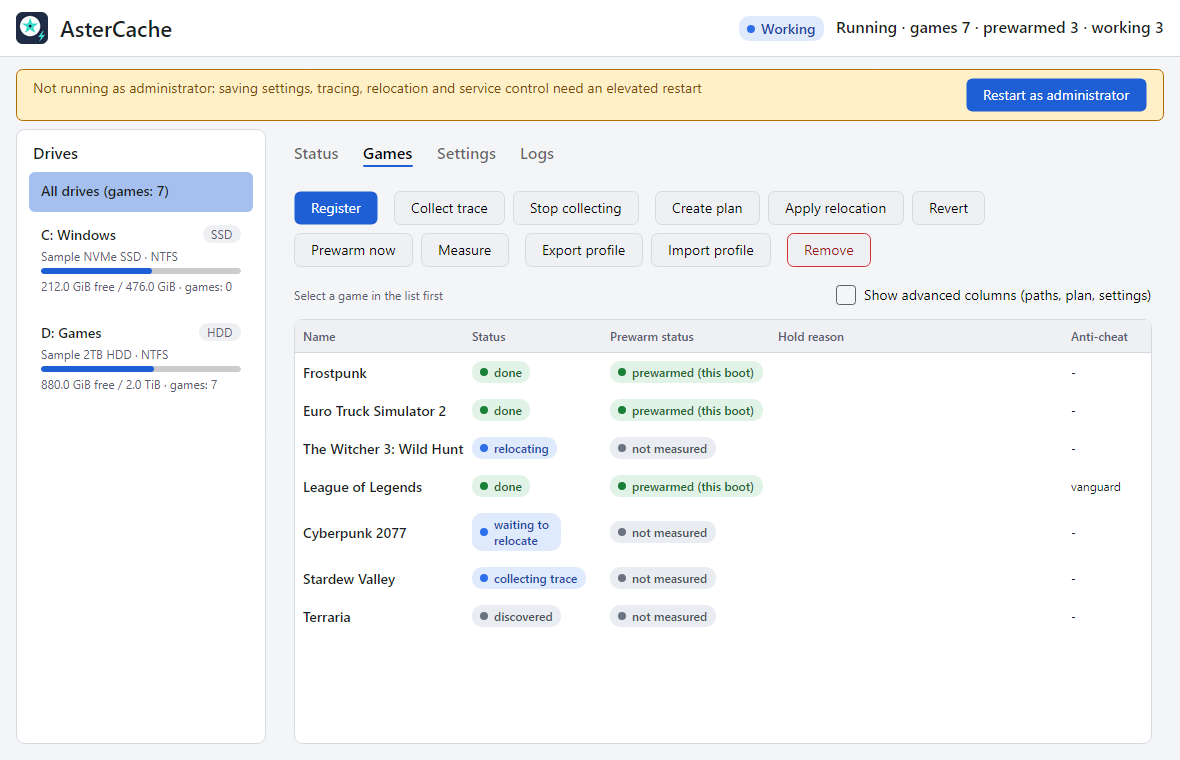
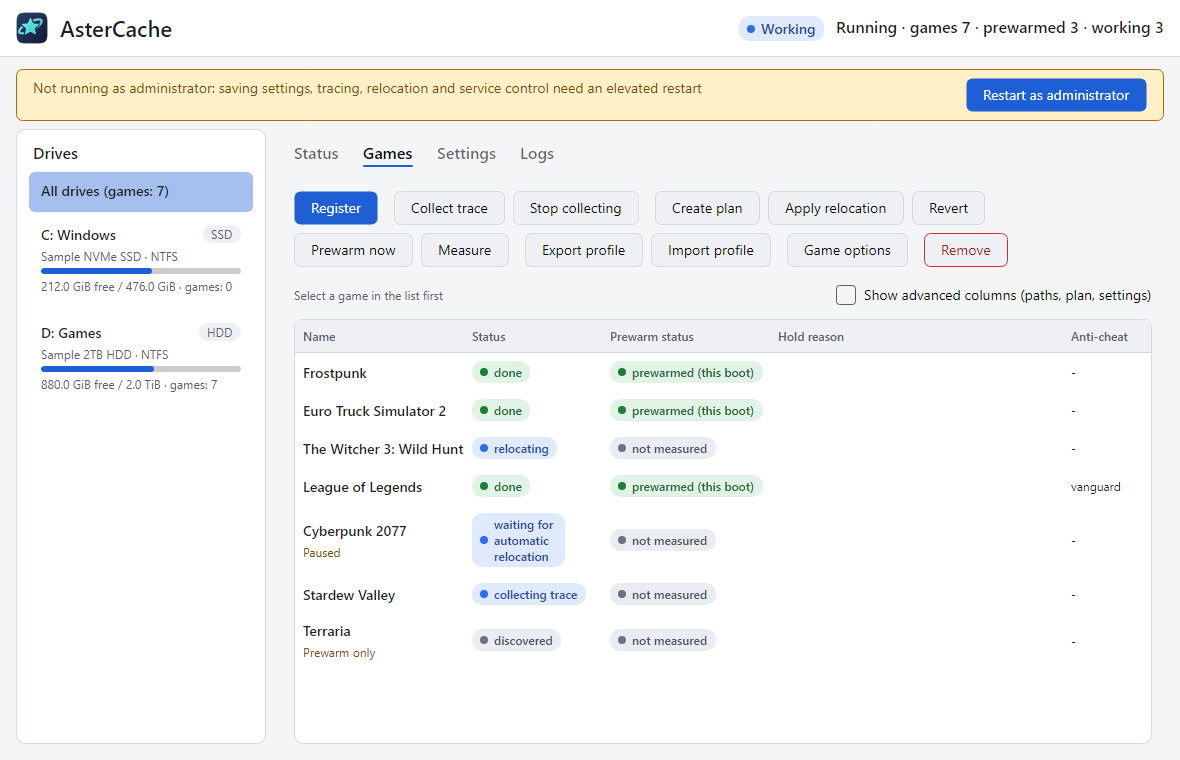
Docs: 정식판에 들어간 기능을 사용자 문서에 반영
사용자 문서가 프리릴리스 시점의 내용에 머물러, 자동 업데이트와 게임별 정책,
재배치 시간대, 마지막 플레이 요약, 진단 내보내기가 빠져 있었습니다.

- README: 업데이트 절 추가, 프리릴리스를 전제로 한 문구와 버전 예시 수정
- USAGE: 상태·게임·설정·로그 탭 설명 갱신, 게임 설정 창과 고급 구역, 트레이
  메뉴, 게임 일시 중지와 업데이트 끄기 방법 추가
- AUTO_MODE: 게임별 정책과 일시 중지, 재배치 시간대, 시작 스트림 스위치,
  알림 끄기 반영
- CONFIGURATION: 화면에서 고칠 수 있는 키와 고급 구역의 키, tray.json 의
  알림 키 설명 추가
- FAQ: 자동 업데이트, 진단 ZIP, 게임 하나만 제외하는 방법 추가
- ANTICHEAT: 설정으로는 안티치트 게이트와 고정 금지가 풀리지 않음을 명시
- 화면 캡처를 새 아이콘과 새 화면으로 교체

Issues #137

diff --git a/docs/CONFIGURATION.ko.md b/docs/CONFIGURATION.ko.md
@@ -9,6 +9,8 @@
 - 서비스는 파일 전체를 5초마다 다시 읽습니다(크기나 수정 시각이 바뀔 때). 그래서 다시 시작하지 않아도 반영됩니다. 새 설정이 검증이나 폴더 권한 검사에 실패하면 옛 설정을 유지하고 이유를 로그에 남깁니다.
 - 모르는 키는 거부합니다. 생략한 키는 아래 기본값을 씁니다.
 - ORBIT 는 `config.json` 이 아니라 CLI 로 켜고 끕니다(`aster orbit mode off|shadow|active`). [ORBIT](ORBIT.ko.md)을 보십시오.
+- 관리 창의 설정 탭과 게임 탭이 이 키들의 대부분을 씁니다. 설정 탭의 **고급** 구역(기본으로 접힘)에는 숫자 값이 있습니다: `prewarm.max_cache_mib`, `auto.startup_warm_games`, `auto.startup_warm_max_mib`, `auto.rewarm_after_exit_min`, `auto.max_relocations_per_day`, `auto.idle_seconds`, `auto.start_stream_cap_seconds`. 창이 기본값과 같은 값을 쓰면 파일에서 그 키를 지웁니다.
+- 알림 창 켜기·끄기는 `config.json` 이 아니라 `tray.json` 의 `notifications.enabled` 입니다.
 
 ```json
 {
@@ -61,10 +63,10 @@
 | `max_stream_mib` | 4096과 존 크기 중 큰 값 | 한 번의 스트림·예열이 읽는 상한(MiB). 명시값이 우선합니다. |
 | `source` | `manual` | 자동으로 찾은 게임은 `auto`, 직접 등록한 게임은 `manual`. |
 | `anticheat` | 없음 | 설치 폴더에서 찾은 안티치트: `eac`, `battleye`, `vanguard`, `kernel`, `ricochet`, `unknown`. 게임 탭에 표시되며 동작은 바꾸지 않습니다. 정책은 [안티치트 호환](ANTICHEAT.ko.md)을 보십시오. |
-| `display_name` | 없음 | 화면에 보일 게임 이름. 없으면 서비스가 남긴 런처 이름, 그것도 없으면 키의 밑줄을 공백으로 바꾼 이름을 씁니다. 내부 키는 그대로입니다. |
+| `display_name` | 없음 | 화면에 보일 게임 이름. 없으면 서비스가 남긴 런처 이름, 그것도 없으면 키의 밑줄을 공백으로 바꾼 이름을 씁니다. 내부 키는 그대로입니다. 게임 탭의 게임 설정 창(기본·한국어·영어 이름 칸)에서도 고칠 수 있습니다. |
 | `display_names` | 없음 | 언어별 화면 이름. 예: `{"ko": "발로란트", "en": "VALORANT"}`. 키는 `ko`, `en` 만 됩니다. |
-| `mode` | `inherit` | 이 게임에 서비스가 하는 일의 범위: `inherit`(전부), `prewarm_only`(재배치·정기 재적용 제외), `relocate_only`(예열·재예열·보충·시작 스트림·고정 제외), `off`(아무것도 안 함). 추적은 게임이 `off` 이거나 `paused` 가 아니면 계속 허용됩니다. |
-| `paused` | `false` | `true` 면 `mode` 와 무관하게 서비스가 이 게임의 새 작업을 시작하지 않습니다. 학습 데이터와 기록은 그대로 둡니다. |
+| `mode` | `inherit` | 이 게임에 서비스가 하는 일의 범위: `inherit`(전부), `prewarm_only`(재배치·정기 재적용 제외), `relocate_only`(예열·재예열·보충·시작 스트림·고정 제외), `off`(아무것도 안 함). 추적은 게임이 `off` 이거나 `paused` 가 아니면 계속 허용됩니다. 게임 탭의 게임 설정 창에서 정책을 고르는 것으로도 바꿉니다. |
+| `paused` | `false` | `true` 면 `mode` 와 무관하게 서비스가 이 게임의 새 작업을 시작하지 않습니다. 학습 데이터와 기록은 그대로 둡니다. 게임 탭의 게임 설정 창에서 일시 중지 체크 상자로도 바꿉니다. |
 
 `display_name` 과 `display_names` 는 손으로 넣을 수 있는 선택 키입니다. 이 키가 든 설정을 beta.24 로 되돌리면 그 버전이 설정을 거부하므로(종료 코드 2), 되돌리기 전에 두 키를 지워야 합니다.
 
@@ -74,9 +76,9 @@
 |---|---|---|
 | `on_service_start` | `true` | 서비스 시작 때 예열을 실행합니다. |
 | `trigger_exes` | `[]` | 이 프로그램이 뜨면 예열을 실행합니다(예: 런처, 최대 16개). |
-| `min_free_ram_mib` | 4096 | 예열 뒤에도 남겨 둘 가용 RAM. |
+| `min_free_ram_mib` | 4096 | 예열 뒤에도 남겨 둘 가용 RAM. 설정 창에는 없고 파일에서 고칩니다. |
 | `cooldown_min` | 30 | 예열 사이의 최소 간격(분). |
-| `max_cache_mib` | 0(자동) | 예열이 파일 캐시에 올려 둘 합계(MiB), 모든 게임이 나눠 씁니다. `0` 이거나 없으면 물리 RAM 의 절반이고, 양수면 그 값이며 물리 RAM 을 넘지 못합니다. 여러 게임이 적으면 가장 큰 값을 씁니다. `min_free_ram_mib` 여유 검사는 그대로 적용됩니다. |
+| `max_cache_mib` | 0(자동) | 예열이 파일 캐시에 올려 둘 합계(MiB), 모든 게임이 나눠 씁니다. `0` 이거나 없으면 물리 RAM 의 절반이고, 양수면 그 값이며 물리 RAM 을 넘지 못합니다. 여러 게임이 적으면 가장 큰 값을 씁니다. `min_free_ram_mib` 여유 검사는 그대로 적용됩니다. 고급 구역에서 저장하면 모든 등록 게임에 같은 값을 씁니다(0 이면 키를 지움). |
 | `pin` | 자동 | 예열한 데이터를 서비스가 읽기 전용 매핑으로 열어 둡니다. 설정에 적지 않으면 물리 RAM 24 GiB 이상에서 자동으로 켜지고, `false` 는 끕니다. 명시한 `true` 는 RAM 16 GiB 이상에서 동작합니다. 효과 미확인(실험 필요). [안티치트 호환](ANTICHEAT.ko.md)을 보십시오. |
 
 ## 자동 모드: `auto`
@@ -121,7 +123,7 @@
 | 키 | 기본값 | 뜻 |
 |---|---|---|
 | `idle_seconds` | 30 | 재배치 전에 PC 가 한가해야 하는 시간(초, 10~86400). 예전 키 `idle_minutes`(기본 3)는 적혀 있고 `idle_seconds` 가 없을 때만 씁니다. |
-| `relocate_hours` | `[]` | 자동 재배치와 정기 재적용을 시작해도 되는 로컬 시각(시, 0~23, 중복 없음, 최대 24개). 비어 있으면 시간 제한이 없습니다. |
+| `relocate_hours` | `[]` | 자동 재배치와 정기 재적용을 시작해도 되는 로컬 시각(시, 0~23, 중복 없음, 최대 24개). 비어 있으면 시간 제한이 없습니다. 설정 탭에서는 자정을 넘길 수 있는 시작~끝 시각 구간 하나로 고칩니다. 파일에 구간이 여러 개 적혀 있으면 그대로 보존하고 "사용자 지정(파일에서 편집)"으로 표시합니다. |
 | `max_relocations_per_day` | 4 | 24시간 동안의 재배치 최대 횟수(0~24). |
 | `max_relocate_gib_per_day` | 8 | 하루에 재배치로 쓸 수 있는 최대 GiB(0 = 무제한, 최대 1048576). 8 은 기본값으로 취급되어 SMR 디스크는 여전히 2 GiB 를 씁니다. |
 | `relocate_chunk_mib` | 4 | 한 번에 옮기는 조각 크기(MiB, 1~256). |
@@ -143,7 +145,7 @@
 | `startup_warm_max_mib` | 1024 | 서비스 시작 예열이 한 번에 읽는 합계 상한(MiB, 1~1048576). 넘는 게임은 건너뜁니다. |
 | `rewarm_minutes` | 10 | 데이터가 식었는지 보고 다시 예열하는 캐시 점검 간격(0~1440, 0이면 끔). |
 | `rewarm_after_exit_min` | 2 | 게임 종료를 감지하면 캐시 점검을 이 시간(분) 뒤로 당깁니다(0~1440, 0이면 끔). |
-| `start_stream_enabled` | `true` | `false` 면 게임이 시작될 때 시작 스트림을 하지 않습니다. |
+| `start_stream_enabled` | `true` | `false` 면 게임이 시작될 때 시작 스트림을 하지 않습니다. 설정 탭의 스위치로도 바꿉니다. |
 | `restream_cooldown_min` | 10 | 같은 게임의 시작 스트림을 이 시간(분) 안에는 다시 돌리지 않습니다(0~1440). 게임이 이미 실행 중이거나 디스크가 바쁠 때도 건너뜁니다. |
 | `start_stream_cap_seconds` | 120 | 시작 스트림의 시간 상한(초, 0~7200). 로딩 경계(10초 이동 창 읽기량이 최고치의 10% 아래로 떨어지는 시점, 최대 60초)에서도 멈춥니다. 0이면 시간 상한이 없습니다. |
 | `keep_awake` | `true` | 런처가 떠 있거나 평소 플레이하는 시간대에 10분마다 4 KiB 를 작게 읽어 HDD 가 꺼지지 않게 합니다. Windows 전원 설정은 바꾸지 않습니다. |
@@ -156,6 +158,8 @@
 |---|---|---|
 | `mode` | `auto` | 업데이트 방식: `auto`, `notify`, `off`. |
 | `prerelease` | `false` | `true` 면 프리릴리스도 대상으로 합니다. |
+
+설정 탭의 **업데이트** 카드가 `update.mode` 와 `update.prerelease` 를 정합니다.
 
 이전 버전은 `games[].mode`, `games[].paused`, `auto.start_stream_enabled`, `auto.relocate_hours`, `update` 키를 거부하므로, 되돌리기 전에 지워야 합니다.
 

diff --git a/docs/CONFIGURATION.md b/docs/CONFIGURATION.md
@@ -9,6 +9,8 @@ The configuration file is `%ProgramData%\AsterCache\config.json`. Editing it in 
 - The service re-reads the whole file every 5 seconds (when its size or modified time changes), so changes take effect without a restart. If the new configuration fails validation or the folder permission check, the previous settings stay in force and the reason is written to the log.
 - Unknown keys are rejected. Omitted keys take the defaults below.
 - ORBIT is turned on and off from the CLI, not in `config.json` (`aster orbit mode off|shadow|active`). See [ORBIT](ORBIT.md).
+- The management window's Settings and Games tabs write most of these keys. Its **Advanced** section (closed by default) holds seven numeric limits: `prewarm.max_cache_mib`, `auto.startup_warm_games`, `auto.startup_warm_max_mib`, `auto.rewarm_after_exit_min`, `auto.max_relocations_per_day`, `auto.idle_seconds`, and `auto.start_stream_cap_seconds`. A value the window writes equal to its default is removed from the file.
+- The pop-up notification switch is not in `config.json`; it is `notifications.enabled` in `tray.json`.
 
 ```json
 {
@@ -61,10 +63,10 @@ The configuration file is `%ProgramData%\AsterCache\config.json`. Editing it in 
 | `max_stream_mib` | the larger of 4096 and the zone size | Upper limit of what one stream or prewarm reads, in MiB. An explicit value wins. |
 | `source` | `manual` | `auto` for a game found automatically, `manual` for a game you registered. |
 | `anticheat` | none | Anti-cheat found in the install folder: `eac`, `battleye`, `vanguard`, `kernel`, `ricochet`, or `unknown`. Shown in the Games tab; it does not change behavior. For the policy, see [Anti-cheat compatibility](ANTICHEAT.md). |
-| `display_name` | none | Game name shown on screen. When not set, uses the launcher name the service recorded, or else the key with underscores replaced by spaces. The internal key is unchanged. |
+| `display_name` | none | Game name shown on screen. When not set, uses the launcher name the service recorded, or else the key with underscores replaced by spaces. The internal key is unchanged. You can also set it in the Game options window on the Games tab (default, Korean, and English name boxes). |
 | `display_names` | none | Per-language display names. Example: `{"ko": "발로란트", "en": "VALORANT"}`. Only the keys `ko` and `en` are accepted. |
-| `mode` | `inherit` | What the service does for this game: `inherit` (everything), `prewarm_only` (no relocation or periodic re-apply), `relocate_only` (no prewarm, re-prewarm, top-up, start-up stream, or pin), `off` (nothing). Tracing stays allowed unless the game is `off` or `paused`. |
-| `paused` | `false` | When `true`, the service starts no new work for this game, whatever `mode` says. Learned data and records are kept. |
+| `mode` | `inherit` | What the service does for this game: `inherit` (everything), `prewarm_only` (no relocation or periodic re-apply), `relocate_only` (no prewarm, re-prewarm, top-up, start-up stream, or pin), `off` (nothing). Tracing stays allowed unless the game is `off` or `paused`. Also set by the policy choice in the Game options window on the Games tab. |
+| `paused` | `false` | When `true`, the service starts no new work for this game, whatever `mode` says. Learned data and records are kept. Also set by the Paused checkbox in the Game options window on the Games tab. |
 
 `display_name` and `display_names` are optional keys you can write by hand. If you roll back to beta.24 with these keys in the configuration, that version rejects the settings (exit code 2), so remove both keys before rolling back.
 
@@ -74,9 +76,9 @@ The configuration file is `%ProgramData%\AsterCache\config.json`. Editing it in 
 |---|---|---|
 | `on_service_start` | `true` | Run prewarm when the service starts. |
 | `trigger_exes` | `[]` | Run prewarm when one of these programs starts, for example a launcher (up to 16). |
-| `min_free_ram_mib` | 4096 | Available RAM to leave free even after prewarm. |
+| `min_free_ram_mib` | 4096 | Available RAM to leave free even after prewarm. Not shown in the Settings window; edit the file. |
 | `cooldown_min` | 30 | Minimum interval between prewarms, in minutes. |
-| `max_cache_mib` | 0 (automatic) | Total MiB that prewarm may hold in the file cache, shared by all games. `0` or omitted = half of physical RAM; a positive value is used as is but cannot exceed physical RAM. If several games set it, the largest value applies. The `min_free_ram_mib` reserve still applies. |
+| `max_cache_mib` | 0 (automatic) | Total MiB that prewarm may hold in the file cache, shared by all games. `0` or omitted = half of physical RAM; a positive value is used as is but cannot exceed physical RAM. If several games set it, the largest value applies. The `min_free_ram_mib` reserve still applies. The Advanced section writes the value to every registered game (0 removes the key). |
 | `pin` | automatic | Keep prewarmed data open as read-only mappings in the service. When not written, it is on automatically with 24 GiB of RAM or more; `false` turns it off; an explicit `true` works with 16 GiB of RAM or more. Effect unverified (needs an experiment). See [Anti-cheat compatibility](ANTICHEAT.md). |
 
 ## Automatic mode: `auto`
@@ -121,7 +123,7 @@ What each stage does is in [Automatic mode](AUTO_MODE.md). Ranges are given in p
 | Key | Default | Meaning |
 |---|---|---|
 | `idle_seconds` | 30 | How long the PC must stay idle before relocation, in seconds (10 to 86400). The older `idle_minutes` (default 3) is used only if it is written and `idle_seconds` is not. |
-| `relocate_hours` | `[]` | Local hours of the day (0 to 23, no duplicates, up to 24 values) at which automatic relocation and periodic re-apply may start. Empty means no time limit. |
+| `relocate_hours` | `[]` | Local hours of the day (0 to 23, no duplicates, up to 24 values) at which automatic relocation and periodic re-apply may start. Empty means no time limit. The Settings tab offers one start-to-end range that may cross midnight; a file with several ranges is kept as written and shown as custom. |
 | `max_relocations_per_day` | 4 | The most relocations in 24 hours (0 to 24). |
 | `max_relocate_gib_per_day` | 8 | The most GiB a day that relocation may write (0 = unlimited, up to 1048576). An explicit 8 is treated as the default, so SMR disks still use 2 GiB. |
 | `relocate_chunk_mib` | 4 | Size of one moved piece, in MiB (1 to 256). |
@@ -143,7 +145,7 @@ What each stage does is in [Automatic mode](AUTO_MODE.md). Ranges are given in p
 | `startup_warm_max_mib` | 1024 | Total MiB the service-start prewarm reads at once (1 to 1048576). Games beyond it are skipped. |
 | `rewarm_minutes` | 10 | Interval of the cache check that prewarms again when the data went cold (0 to 1440; 0 = off). |
 | `rewarm_after_exit_min` | 2 | When a game exit is detected, the cache check is pulled forward to this many minutes later (0 to 1440; 0 = off). |
-| `start_stream_enabled` | `true` | When `false`, no start-up stream runs when a game starts. |
+| `start_stream_enabled` | `true` | When `false`, no start-up stream runs when a game starts. Also a switch in the Settings tab. |
 | `restream_cooldown_min` | 10 | The start-up stream of the same game is not run again within this many minutes (0 to 1440). It is also skipped while the game is running or the disk is busy. |
 | `start_stream_cap_seconds` | 120 | Time limit of the start-up stream, in seconds (0 to 7200). It also stops at the loading boundary (the point where the reads in a 10-second moving window fall below 10% of their peak, at most 60 seconds in). 0 means no time limit. |
 | `keep_awake` | `true` | A small 4 KiB read every 10 minutes, while a launcher is open or at the hours you usually play, so the HDD does not spin down. Windows power settings are not changed. |
@@ -156,6 +158,8 @@ What each stage does is in [Automatic mode](AUTO_MODE.md). Ranges are given in p
 |---|---|---|
 | `mode` | `auto` | How updates are handled: `auto`, `notify`, or `off`. |
 | `prerelease` | `false` | When `true`, prereleases are also considered. |
+
+The Updates card in the Settings tab sets `update.mode` and `update.prerelease`.
 
 Older versions reject the keys `games[].mode`, `games[].paused`, `auto.start_stream_enabled`, `auto.relocate_hours`, and `update`, so remove them before rolling back.
 

diff --git a/docs/USAGE.ko.md b/docs/USAGE.ko.md
@@ -16,12 +16,14 @@
 
 | 탭 | 할 수 있는 일 |
 |---|---|
-| **상태** | 서비스 상태와 마지막 예열, **자동 진행** 숫자 타일 다섯 개(찾은 게임, 만든 계획, 재배치, 예열, 평균 적중률), 게임별 카드(단계, 배치 판정, 마지막 재배치, 예열 결과, `예열 직후 적중 N%`)를 봅니다. |
-| **게임** | 게임별 상태, 예열 상태, 보류 이유, 안티치트 표시를 봅니다. 버튼은 등록, 제거, 트레이스 수집, 계획 만들기, 재배치 실행, 되돌리기, 지금 예열, 측정입니다(아래 참고). **고급 열 보기**를 켜면 경로와 설정이 더 보입니다. |
-| **설정** | **자동 모드** 카드(자동 모드 사용, 발견, 트레이스, 재배치, SSD 보조 저장, 예열할 최근 게임 수, 제외할 실행 파일, 존 상한, 하루 쓰기 상한), **서비스** 카드(설치, 제거, 시작, 정지), 감시기, **언어**, 데이터·로그 폴더 열기, 트레이·서비스 버전을 다룹니다. |
-| **로그** | `service.log` 와 `tray.log` 의 마지막 200줄을 새로 고침과 함께 보여 줍니다. |
+| **상태** | 서비스 상태와 마지막 예열, **자동 진행** 숫자 타일 다섯 개(찾은 게임, 만든 계획, 재배치, 예열, 평균 적중률), 게임별 카드(단계, 배치 판정, 마지막 재배치, 예열 결과, `예열 직후 적중 N%`, 마지막 플레이)를 봅니다. 마지막 플레이는 두 줄로, 언제 플레이했는지와 시작할 때의 예열 상태, 처음 30초·처음 120초·플레이 전체의 디스크 읽기 통계를 보여 줍니다. 이 값은 디스크 읽기 카운터이며 로딩 시간이나 프레임을 잰 값이 아닙니다. 기본값이 아닌 정책이나 일시 중지는 카드에도 표시됩니다. |
+| **게임** | 게임별 상태, 예열 상태, 보류 이유, 안티치트 표시를 봅니다. 버튼은 등록, 제거, 게임 설정, 트레이스 수집, 계획 만들기, 재배치 실행, 되돌리기, 지금 예열, 측정, 프로필 내보내기, 프로필 가져오기입니다(아래 참고). **고급 열 보기**를 켜면 경로와 설정이 더 보입니다. 게임을 고른 뒤 **게임 설정**을 누르면 창이 열립니다. 창에는 **일시 중지** 체크 상자, **정책**(`games[].mode`: 전체(기본값), 예열만, 재배치만, 사용 안 함, 각각 한 줄 설명)과 표시 이름 칸 세 개(기본 이름, 한국어 이름, 영어 이름)가 있고, **저장**과 **취소**가 있습니다. 내부 이름은 바뀌지 않습니다. 기본값이 아닌 정책이나 일시 중지는 게임 이름 아래에 "일시 중지됨 · 예열만"처럼 표시됩니다. |
+| **설정** | **자동 모드** 카드(자동 모드 사용, 발견, 트레이스, 재배치, SSD 보조 저장, 예열할 최근 게임 수, 제외할 실행 파일, 존 상한, 하루 쓰기 상한), 자동 모드 카드의 **게임 시작 때 미리 읽기 (시작 스트림)** 체크 상자(`auto.start_stream_enabled`), **재배치 시간대**(`auto.relocate_hours`: **언제든**, 또는 **시간 지정**으로 자정을 넘길 수 있는 시작~끝 시각. 한 구간이 아닌 값은 그대로 두고 **사용자 지정 (파일에서 편집)**으로 표시하며, 시작과 끝이 같으면 저장하지 않습니다), **업데이트** 카드(자동 설치, 알림만, 끄기, 프리릴리스 포함, 지금 확인), **알림** 체크 상자, **서비스** 카드(설치, 제거, 시작, 정지), 감시기, **언어**, 데이터·로그 폴더 열기, 트레이·서비스 버전을 다룹니다. 맨 아래 **고급** 구역은 **고급 설정 보기**를 켜야 펼쳐지며 기본으로 접혀 있습니다(아래 설명). |
+| **로그** | `service.log` 와 `tray.log` 의 마지막 200줄을 새로 고침과 함께 보여 줍니다. **진단 내보내기**는 고른 위치에 ZIP 파일을 만듭니다([자주 묻는 질문](FAQ.ko.md) 참고). |
 
-트레이 아이콘 메뉴에는 **열기**와 **지금 예열 (스트림)** 이 있습니다.
+**고급 구역 (설정 탭).** 지금까지 `config.json` 에서만 고칠 수 있던 숫자 값을 둡니다. 각 항목은 기본값과 한 줄 설명을 보여 주며, 범위를 벗어난 값은 거절되고 아무것도 저장되지 않습니다. **고급 설정 적용**을 누르면 위 자동 모드의 입력도 함께 한 번에 저장됩니다. 예열 캐시 예산(`prewarm.max_cache_mib`)은 게임마다가 아니라 모든 게임이 함께 쓰며, 0 은 물리 RAM 의 절반입니다. 설정 창에서 바꾸면 등록된 모든 게임에 같은 값을 적습니다(0 이면 키를 지움). 나머지는 서비스 시작 때 예열할 게임 수와 크기 상한(`auto.startup_warm_games`, `auto.startup_warm_max_mib`), 게임 종료 뒤 다시 예열하기까지 기다리는 시간(`auto.rewarm_after_exit_min`), 하루 재배치 횟수(`auto.max_relocations_per_day`), 유휴 판정 시간(`auto.idle_seconds`), 시작 스트림 시간 상한(`auto.start_stream_cap_seconds`)입니다. 모든 키는 [설정](CONFIGURATION.ko.md)에 있습니다.
+
+트레이 아이콘 메뉴에는 **열기**, **지금 예열 (스트림)**, **업데이트 확인**, 새 버전이 준비되면 **업데이트 설치 (버전)**, 그리고 **로그 열기**가 있습니다.
 
 ## 자주 하는 작업
 
@@ -30,6 +32,10 @@
 **자동 모드 끄기.** **설정** 탭에서 **자동 모드 사용** 체크를 풀고 **자동 모드 적용**을 누릅니다. 또는 `%ProgramData%\AsterCache\config.json` 에 `"auto": {"enabled": false}` 를 씁니다.
 
 **게임 하나만 빼기.** 그 exe 를 `auto.ignore_exes` 에 넣거나, **게임** 탭에서 게임을 고르고 **제거**를 누릅니다(exe 가 목록에 들어가 다시 등록되지 않습니다).
+
+**게임 일시 중지 또는 허용 범위 줄이기.** **게임** 탭에서 게임을 고르고 **게임 설정**을 누른 뒤 **일시 중지**를 켜거나 끄고 정책을 고릅니다. 일시 중지한 게임과 **사용 안 함** 게임은 새 작업을 시작하지 않으며 추적도 하지 않습니다. 이미 진행 중이던 추적은 기록한 읽기를 그대로 저장합니다. **예열만**은 예열과 계획만 하고 파일은 옮기지 않습니다. **재배치만**은 옮기기만 하고 예열하지 않습니다. 다른 게임에는 영향이 없습니다.
+
+**자동 업데이트 끄기 또는 알림만 받기.** **설정** 탭의 **업데이트** 카드에서 **끄기** 또는 **알림만**을 고르십시오. [자주 묻는 질문](FAQ.ko.md)의 업데이트 항목을 보십시오.
 
 **게임 되돌리기.** **게임** 탭에서 게임을 고르고 **되돌리기**를 누릅니다. 저널이 예전 배치로 복원하며, 파일 내용은 처음부터 바뀌지 않았습니다. 게임이 실행 중이면 되돌리기는 거절됩니다.
 

diff --git a/README.ko.md b/README.ko.md
@@ -14,7 +14,7 @@
   <a href="https://github.com/DO0OG/AsterCache/actions/workflows/kernel-build.yml"><img alt="Kernel Build" src="https://github.com/DO0OG/AsterCache/actions/workflows/kernel-build.yml/badge.svg"></a>
 </p>
 
-> **베타.** AsterCache 는 베타 프리릴리스로 배포합니다. 파일 데이터를 실제로 옮기므로 중요한 데이터가 있는 드라이브는 백업한 뒤 쓰십시오. 검증 범위는 SMR 드라이브(WD20EZAZ) 1대와 실제 게임 1종(Frostpunk)이며, CMR 드라이브는 시험하지 않았습니다. 안티치트 게임은 한 PC 의 사용 기록만 있고 통제된 검증은 하지 않았습니다([안티치트 호환](docs/ANTICHEAT.ko.md)).
+> **사용 전에 읽으십시오.** AsterCache 는 파일 데이터를 실제로 옮기므로 중요한 데이터가 있는 드라이브는 백업한 뒤 쓰십시오. 검증 범위는 SMR 드라이브(WD20EZAZ) 1대와 실제 게임 1종(Frostpunk)이며, CMR 드라이브는 시험하지 않았습니다. 안티치트 게임은 한 PC 의 사용 기록만 있고 통제된 검증은 하지 않았습니다([안티치트 호환](docs/ANTICHEAT.ko.md)).
 
 ## 무엇을 하는가
 
@@ -22,6 +22,7 @@ AsterCache 는 하드 디스크(HDD)에 설치한 게임의 로딩을 빠르게 
 
 - 게임 파일의 내용을 바꾸지 않고, 다른 드라이브로 복사하지도 않습니다(선택 기능인 SSD 보조 저장은 기본 꺼짐이며 유일한 예외입니다).
 - 설치한 뒤에는 따로 할 일이 없습니다. 백그라운드에서 알아서 동작합니다.
+- 트레이 창은 게임마다 마지막 플레이 요약을 보여 줍니다. 디스크 읽기 통계이며 로딩 시간이나 프레임을 잰 값이 아닙니다. 지원용 진단 ZIP 을 내보낼 수 있고, 그 파일은 이 PC 에만 남습니다.
 - 이 문서의 측정 수치는 기록한 읽기 패턴의 재생 시간이며, 게임을 실행한 전체 로딩 시간이 아닙니다.
 
 ## 누구에게 맞는가
@@ -42,13 +43,17 @@ AsterCache 는 하드 디스크(HDD)에 설치한 게임의 로딩을 빠르게 
 
 요구 사항: Windows 11 x64, NTFS 게임 드라이브. 서비스 설치, 트레이스 수집, 재배치에는 관리자 권한이 필요합니다.
 
-1. [GitHub Releases](https://github.com/DO0OG/AsterCache/releases) 에서 `AsterCache-v<버전>-win-x64-setup.exe` 를 받습니다(프리릴리스, 예: v0.9.0-beta.38).
+1. [GitHub Releases](https://github.com/DO0OG/AsterCache/releases) 에서 `AsterCache-v<버전>-win-x64-setup.exe` 를 받습니다(최신 릴리스).
 2. 실행해서 언어(English 또는 한국어)를 고릅니다.
 3. 기본 선택(바탕화면·시작 메뉴 바로가기, Windows 시작 시 실행, 서비스 설치)을 그대로 두고 끝날 때까지 다음을 누릅니다.
 
-설치 프로그램이 싫다면 같은 릴리스의 zip `AsterCache-0.9.0-beta.38-win-x64.zip` 을 쓸 수 있습니다. 압축을 풀고 `AsterCache.Tray.exe` 를 관리자 권한으로 실행한 뒤, 설정 탭에서 서비스를 설치하고 시작합니다.
+설치 프로그램이 싫다면 같은 릴리스의 zip `AsterCache-<버전>-win-x64.zip` 을 쓸 수 있습니다. 압축을 풀고 `AsterCache.Tray.exe` 를 관리자 권한으로 실행한 뒤, 설정 탭에서 서비스를 설치하고 시작합니다.
 
 새 설치본을 다시 실행하면 기존 설치를 업그레이드합니다. 제거하면 먼저 SSD 보조 저장의 링크를 되돌린 뒤 프로그램과 서비스를 지웁니다. 데이터 폴더 `%ProgramData%\AsterCache` 는 남습니다. 설치 프로그램에는 코드 서명이 없어 Windows SmartScreen 경고가 뜰 수 있습니다. 소스에서 빌드하려면 [docs/DEVELOPMENT.ko.md](docs/DEVELOPMENT.ko.md)를 보십시오.
+
+### 3. 업데이트
+
+트레이는 시작 5분 뒤와 그 뒤 24시간마다 공식 릴리스를 확인합니다. 기본(`update.mode` = `auto`)은 더 새로운 설치 프로그램을 받아 SHA-256 을 검증한 뒤 조용히 설치합니다. 단, 설치된 복사본을 관리자 권한으로 실행 중이고, 등록된 게임이 실행 중이 아니며, 재배치가 진행 중이 아닐 때만 설치합니다. 그 밖의 경우에는 알림만 하거나 릴리스 페이지를 엽니다. 설정 탭의 업데이트 구역에서 **자동 설치**, **알림만**, **끄기** 가운데 고를 수 있고, 프리릴리스는 따로 켜지 않으면 포함하지 않습니다. 서비스는 네트워크를 쓰지 않습니다. 조용한 설치는 아직 실기기에서 확인하지 않았습니다. 자세한 내용은 [docs/FAQ.ko.md](docs/FAQ.ko.md)를 보십시오.
 
 ### 2. 사용: 누를 버튼은 없습니다
 
@@ -135,7 +140,7 @@ flowchart LR
 - 추적은 디스크까지 간 읽기만 기록합니다. 이미 캐시에 있던 읽기는 빠질 수 있습니다.
 - 재생 측정은 SMR 드라이브 1대에서 실제 게임 Frostpunk 1종만 했습니다. 지속성은 재배치 뒤 10시간까지 확인했습니다. Call of Duty 와 League of Legends 는 사용 로그 집계만 있습니다.
 - 정전, SSD 손상, BitLocker, DirectStorage 환경은 시험하지 않았습니다.
-- 트레이만 갱신되면 서비스는 옛 버전으로 남습니다. 설치 프로그램으로 서비스를 다시 설치하십시오.
+- 트레이만 갱신되면 서비스는 옛 버전으로 남습니다. 설치 프로그램으로 서비스를 다시 설치하십시오. 자동 업데이트는 설치 프로그램 전체를 실행하므로 서비스도 함께 갱신됩니다.
 - Wallpaper Engine 같은 상주 유틸리티는 자동 등록에서 제외됩니다. HDD 에 있는 그 밖의 게임이 아닌 앱은 등록될 수 있으니, 원치 않으면 그 exe 를 `auto.ignore_exes` 에 넣거나 게임 탭에서 제거하십시오.
 - `AppData\Local\Temp` 아래 설치한 게임은 휴리스틱으로 잡히지 않습니다. 공유 프로필 저장소는 아직 준비 중입니다.
 - 검증한 것과 하지 않은 것의 전체 목록은 [VALIDATION_REPORT.ko.md](VALIDATION_REPORT.ko.md)에 있습니다.

diff --git a/docs/USAGE.md b/docs/USAGE.md
@@ -16,12 +16,14 @@ The left side lists your fixed drives (letter, label, HDD or SSD, free space, nu
 
 | Tab | What you can do |
 |---|---|
-| **Status** | See the service state and the last prewarm; the five **Automatic progress** tiles (games found, plans made, relocated, prewarmed, average hit rate); and one card per game with its stage, layout verdict, last relocation, prewarm result, and `hit right after prewarm N%`. |
-| **Games** | See each game's status, prewarm state, hold reason, and anti-cheat marker. Buttons: Register, Remove, Collect trace, Create plan, Apply relocation, Revert, Prewarm now, Measure (below). **Show advanced columns** adds paths and settings. |
-| **Settings** | The **Automatic mode** card (use automatic mode, discover, trace, relocate, SSD assist storage, recent games to prewarm, excluded executables, zone limit, daily write limit); the **Service** card (install, uninstall, start, stop); the watcher; **language**; open the data and log folders; tray and service versions. |
-| **Logs** | The last 200 lines of `service.log` and `tray.log`, with refresh. |
+| **Status** | See the service state and the last prewarm; the five **Automatic progress** tiles (games found, plans made, relocated, prewarmed, average hit rate); and one card per game with its stage, layout verdict, last relocation, prewarm result, `hit right after prewarm N%`, and the last play. The last play takes two lines: when it was played, the prewarm state at start, and disk read statistics for the first 30 seconds, the first 120 seconds, and the whole play. These are disk read counters, not a load-time or frame measurement. A non-default policy or pause also shows on the card. |
+| **Games** | See each game's status, prewarm state, hold reason, and anti-cheat marker. Buttons: Register, Remove, Game options, Collect trace, Create plan, Apply relocation, Revert, Prewarm now, Measure, Export profile, Import profile (below). **Show advanced columns** adds paths and settings. Select a game and click **Game options** to open a window with a **Paused** checkbox, a **policy** (`games[].mode`: Everything (default), Prewarm only, Relocate only, or Off, each with a one-line description), and three display-name boxes (default, Korean, English). **Save** applies them and **Cancel** closes the window. The internal name does not change. A game whose policy is not the default, or that is paused, shows that under its name in the list (for example "Paused · Prewarm only"). |
+| **Settings** | The **Automatic mode** card (use automatic mode, discover, trace, relocate, SSD assist storage, recent games to prewarm, excluded executables, zone limit, daily write limit); the **Read ahead when a game starts (start stream)** checkbox (`auto.start_stream_enabled`) in the Automatic mode card; **Relocation hours** (`auto.relocate_hours`): **Any time**, or **Set hours** with a start and end hour that may cross midnight (a value that is not a single range is kept and shown as **Custom (edit in the file)**; equal start and end is refused); the **Updates** card (Install automatically, Notify only, or Off; include prereleases; check now); the **Notifications** checkbox; the **Service** card (install, uninstall, start, stop); the watcher; **language**; open the data and log folders; tray and service versions. At the bottom, the **Advanced** section stays closed until you tick **Show advanced settings**; it is described below. |
+| **Logs** | The last 200 lines of `service.log` and `tray.log`, with refresh. **Export diagnostics** writes a ZIP file to a place you choose (see the question about it in [FAQ](FAQ.md)). |
 
-The tray icon menu has **Open** and **Prewarm now (stream)**.
+**Advanced section (Settings tab).** It holds the numeric limits that were previously only editable in `config.json`. Each one shows its default and a one-line meaning; a value outside its range is refused and nothing is saved, and **Apply advanced settings** saves them together with the Automatic mode inputs above. The prewarm cache budget (`prewarm.max_cache_mib`) is shared by all games, not set per game; 0 means half of physical RAM. The other items are the number of games and the size cap for the prewarm at service start (`auto.startup_warm_games`, `auto.startup_warm_max_mib`), the wait after a game exits before prewarming again (`auto.rewarm_after_exit_min`), the daily relocation count (`auto.max_relocations_per_day`), the idle time (`auto.idle_seconds`), and the time limit of the start stream (`auto.start_stream_cap_seconds`). All keys are in [CONFIGURATION](CONFIGURATION.md).
+
+The tray icon menu has **Open**, **Prewarm now (stream)**, **Check for updates**, and **Install update (version)** when a newer version is ready, plus **Open logs**.
 
 ## Common tasks
 
@@ -30,6 +32,10 @@ The tray icon menu has **Open** and **Prewarm now (stream)**.
 **Turn automatic mode off.** In **Settings**, clear **Use automatic mode** and click **Apply automatic mode**. Or set `"auto": {"enabled": false}` in `%ProgramData%\AsterCache\config.json`.
 
 **Keep one game out.** Add its exe to `auto.ignore_exes`, or select it on the **Games** tab and click **Remove** (the exe is added to the list so it is not registered again).
+
+**Pause a game, or limit what it may do.** On the **Games** tab, select the game, click **Game options**, and tick **Paused** or choose a policy. A paused game and a game set to **Off** start no new work and are not traced; a trace that was already running keeps the reads it has recorded. **Prewarm only** prewarms and plans but never moves files. **Relocate only** moves files but does not prewarm. Other games are not affected.
+
+**Turn updates off, or only be told about them.** In **Settings**, open the **Updates** card and choose **Off** or **Notify only**. See the updates questions in [FAQ](FAQ.md).
 
 **Put a game back.** On the **Games** tab, select the game and click **Revert**. The journal restores the previous layout; the file contents never changed. Revert is refused while the game is running.
 

diff --git a/docs/FAQ.md b/docs/FAQ.md
@@ -19,7 +19,7 @@ When a game starts, it reads that game's recorded data in order for up to 120 se
 Uninstalling first reverts SSD assist links, then removes the program and the service. The data folder `%ProgramData%\AsterCache` stays. Pieces already moved are not moved back, and the file contents are unchanged either way; to restore the previous layout, click **Revert** on the Games tab first. Removing a game from the list leaves its files as they are. See [Usage](USAGE.md#common-tasks).
 
 **How much RAM does it use?**
-Prewarmed data is ordinary file cache. Across all games it is limited to half of physical RAM by default (`prewarm.max_cache_mib`), and prewarm runs only when at least 4 GB of RAM would still be free afterwards. Windows reclaims the cache when your programs need the memory. See [Configuration](CONFIGURATION.md).
+Prewarmed data is ordinary file cache. Across all games it is limited to half of physical RAM by default (`prewarm.max_cache_mib`), and prewarm runs only when at least 4 GB of RAM would still be free afterwards. Windows reclaims the cache when your programs need the memory. See [Configuration](CONFIGURATION.md). The tray and the service also release memory they used to keep (the tray no longer reads whole logs, and the service drops data left behind by a removed game); the before-and-after figures have not been measured.
 
 **Is it safe with anti-cheat games?**
 AsterCache never touches the game process: it reads files from its own process, watches file reads with Windows event tracing, and moves files only after the game has exited. But no controlled validation has been done, only usage records from one PC, and no guarantee is made about account sanctions. For an anti-cheat game, turn automatic mode off or add the game to `auto.ignore_exes` before you play. See [Anti-cheat compatibility](ANTICHEAT.md).
@@ -36,11 +36,23 @@ Relocation needs a trace (the record of what the game reads). Before a first run
 **Will the very first launch be faster?**
 No. The first launch only records what the game reads; the full effect comes from the second launch, after the move and prewarm. First-run read-ahead is an experimental feature, off by default because the E7 to E7f measurements showed no gain (`auto.learn.enabled`; see [RESULTS_SUMMARY](RESULTS_SUMMARY.md)).
 
+**Can I turn automatic updates off?**
+Yes. In the Settings tab, open the **Updates** card and choose **Off**, or **Notify only** to be told about a new version without installing it. The same settings are `update.mode` (`auto`, `notify`, or `off`) in `config.json`. Prereleases are not offered unless `update.prerelease` is `true`.
+
+**What does automatic update download, and when does it install?**
+The tray checks the official GitHub releases 5 minutes after it starts and then every 24 hours. It downloads only a newer version: the `AsterCache-v<version>-win-x64-setup.exe` of that release, from GitHub only. It checks the installer's SHA-256 against the release's digest or `SHA256SUMS.txt`, and installs nothing if neither is available. It installs silently only when the tray is an installed copy running with administrator rights, no registered game is running, and no relocation is in progress; the installer runs with `/SILENT`, and the tray comes back afterwards. Otherwise it announces the version, or opens the release page for a zip copy or a copy without administrator rights. If the installation of one version does not change the installed version twice, it only announces it. A failed check or download is tried again after 15 minutes, then 1 hour, then 6 hours. The service does not use the network. This silent installation has not yet been confirmed on a real machine.
+
+**What is in the diagnostics ZIP?**
+Logs tab → **Export diagnostics** writes one ZIP file where you choose. It holds `info.txt` (tray, service, and OS versions, .NET runtime), `config.json`, `tray.json`, `auto_status.json`, `prewarm_status.json`, `play_samples.json`, the last 2,000 lines of `logs/service.log` and `logs/tray.log`, and `manifest.txt`, which lists what was included and what was left out and why. The total is limited to 20 MiB. It does not read game folders. Your user name in paths and in the text, the user part of URLs, token-like strings, and the values of JSON keys whose names contain token, secret, password, or similar are replaced with placeholders. This masking is rule-based and not complete, so check the file before you share it. Nothing is sent over the network.
+
+**Can I exclude only one game?**
+Yes. On the **Games** tab, select the game, click **Game options**, and tick **Paused** or set the policy to **Off**; neither starts new work for that game. To keep it from being registered again, click **Remove**, or add its exe to `auto.ignore_exes`. Removing a game leaves its files where they are.
+
 **Does it optimize programs that stay running, such as Wallpaper Engine?**
 No. Desktop utilities that are not games and stay running once started, such as Wallpaper Engine, YoloMouse, Lossless Scaling, OBS Studio, and SteamVR, are left out of automatic registration, and one already registered is unregistered once after the service starts. For any other program, remove it on the Games tab; it is then not registered again.
 
 **Can my files get damaged?**
-Every move is verified with a SHA-256 check and written to a journal that can be reverted. Still, this is a beta that moves real data: back up important drives first. See [Safety measures](DEVELOPMENT.md#safety-measures).
+Every move is verified with a SHA-256 check and written to a journal that can be reverted. Still, AsterCache moves real data: back up important drives first. See [Safety measures](DEVELOPMENT.md#safety-measures).
 
 ## Troubleshooting
 

diff --git a/README.md b/README.md
@@ -14,7 +14,7 @@
   <a href="https://github.com/DO0OG/AsterCache/actions/workflows/kernel-build.yml"><img alt="Kernel Build" src="https://github.com/DO0OG/AsterCache/actions/workflows/kernel-build.yml/badge.svg"></a>
 </p>
 
-> **Beta.** AsterCache is distributed as a beta pre-release. It physically moves file data, so back up drives that hold important data before using it. Validation covers one SMR drive (WD20EZAZ) and one real game (Frostpunk); CMR drives have not been tested. Anti-cheat games have only usage records from one PC and no controlled validation ([Anti-cheat compatibility](docs/ANTICHEAT.md)).
+> **Read before use.** AsterCache physically moves file data, so back up drives that hold important data before using it. Validation covers one SMR drive (WD20EZAZ) and one real game (Frostpunk); CMR drives have not been tested. Anti-cheat games have only usage records from one PC and no controlled validation ([Anti-cheat compatibility](docs/ANTICHEAT.md)).
 
 ## What it does
 
@@ -22,6 +22,7 @@ AsterCache helps games installed on a hard disk (HDD) load faster. It watches wh
 
 - It does not change your game files, and does not copy them to another drive (the optional SSD assist storage, off by default, is the one exception).
 - After installing, you do not have to do anything. It works in the background.
+- The tray window shows a summary of each game's last play. It is disk read statistics, not a load-time or frame measurement. A diagnostics ZIP can be exported for support; it stays on your PC.
 - The measured figures in this document are replay times of recorded read patterns, not total load times of a running game.
 
 ## Who it is for
@@ -42,13 +43,17 @@ AsterCache helps games installed on a hard disk (HDD) load faster. It watches wh
 
 Requirements: Windows 11 x64 and an NTFS game drive. Installing the service, tracing, and relocation need administrator rights.
 
-1. Open [GitHub Releases](https://github.com/DO0OG/AsterCache/releases) and download `AsterCache-v<version>-win-x64-setup.exe` (pre-release, for example v0.9.0-beta.38).
+1. Open [GitHub Releases](https://github.com/DO0OG/AsterCache/releases) and download `AsterCache-v<version>-win-x64-setup.exe` (the latest release).
 2. Run it and choose a language (English or 한국어).
 3. Keep the default choices (desktop and Start menu shortcuts, start with Windows, install the service) and click Next until it finishes.
 
-Prefer no installer? The same release has a zip, `AsterCache-0.9.0-beta.38-win-x64.zip`. Extract it, run `AsterCache.Tray.exe` as administrator, and install and start the service from the Settings tab.
+Prefer no installer? The same release has a zip, `AsterCache-<version>-win-x64.zip`. Extract it, run `AsterCache.Tray.exe` as administrator, and install and start the service from the Settings tab.
 
 Running a newer installer upgrades the existing installation. Uninstalling reverts any SSD assist links first, then removes the program and the service, but keeps the data folder `%ProgramData%\AsterCache`. The installer is not code-signed, so Windows SmartScreen may show a warning. Building from source: [docs/DEVELOPMENT.md](docs/DEVELOPMENT.md).
+
+### 3. Updates
+
+The tray checks the official releases 5 minutes after it starts and then every 24 hours. By default (`update.mode` = `auto`) it downloads a newer installer, verifies its SHA-256, and installs it silently, but only when the tray runs with administrator rights from an installed copy, no registered game is running, and no relocation is in progress. Otherwise it only notifies you, or opens the release page. You can choose **Install automatically**, **Notify only**, or **Off** in the Settings tab's Updates section; prereleases are not included unless you turn that on. The service itself does not use the network. The silent installation has not yet been confirmed on a real machine. See [docs/FAQ.md](docs/FAQ.md).
 
 ### 2. Use it: there is nothing to press
 
@@ -135,7 +140,7 @@ The synthetic dataset and Frostpunk figures are replay times of traced read patt
 - Tracing records only reads that went to disk; reads already in the cache may be missed.
 - Replay was measured for one real game (Frostpunk) on one SMR drive. Persistence was confirmed up to 10 hours after relocation. Call of Duty and League of Legends have only usage-log tallies.
 - Power loss, SSD damage, BitLocker, and DirectStorage environments have not been tested.
-- If only the tray is updated, the service stays on the old version; reinstall the service with the installer.
+- If only the tray is updated, the service stays on the old version; reinstall the service with the installer. Automatic updates install the whole installer, so they update the service too.
 - Resident utilities such as Wallpaper Engine are excluded from automatic registration. Other non-game apps on an HDD may still be registered; add their exe to `auto.ignore_exes` or remove them on the Games tab.
 - Games installed under `AppData\Local\Temp` are not found by the heuristic. The shared profile repository is still being prepared.
 - The full list of what was and was not validated is in [VALIDATION_REPORT.md](VALIDATION_REPORT.md).

diff --git a/docs/AUTO_MODE.md b/docs/AUTO_MODE.md
@@ -6,6 +6,8 @@
 
 Automatic mode is on by default. In the usual case you do not need to register games or set anything. Each part can be turned off in the **Automatic mode** group of the Settings tab, or in `config.json`. Setting names are listed here; their meanings and defaults are in [CONFIGURATION.md](CONFIGURATION.md). Folded blocks (click to open) hold the conditions, exceptions, and numbers.
 
+Each game can also be limited. Its **policy** (`games[].mode`: `inherit`, `prewarm_only`, `relocate_only`, or `off`) decides which stages may act on it, and **pause** (`games[].paused`) stops new work for it. A paused game, or one set to `off`, is not traced, prewarmed, or relocated. `prewarm_only` allows prewarming and planning but no relocation or periodic re-apply. `relocate_only` allows relocation but no prewarm, start-up stream, or pinning. Neither setting overrides the anti-cheat gate or the ban on pinning. A game that is no longer allowed to prewarm drops its waiting prewarm entries, and it resumes at the next check when allowed again.
+
 ## The stages at a glance
 
 | Stage | One line |
@@ -121,7 +123,8 @@ When the first real run records a trace, the plan made from it replaces the earl
 - **When.** After a trace exists, the game is not running, and the PC is idle, one game at a time.
 - **What.** Plans a zone, moves the pieces into it (journal and SHA-256 sample check), confirms the layout, then prewarms the zone.
 - **Does not.** Run while a game runs (a move in progress stops after the current fragment), move sparse, compressed, or encrypted files, or change file content. A failed check reverts from the journal.
-- **Settings.** `auto.relocate`, `idle_seconds`, `max_relocations_per_day`, `max_zone_mib`, `max_relocate_gib_per_day`. How much it writes: [Effect on the hard disk](GAME_GUIDE.md#effect-on-the-hard-disk).
+- **Hours.** If `auto.relocate_hours` is set, new relocations and periodic re-applies start only in those local hours. A relocation that already started and left a journal finishes outside them.
+- **Settings.** `auto.relocate`, `idle_seconds`, `relocate_hours`, `max_relocations_per_day`, `max_zone_mib`, `max_relocate_gib_per_day`. How much it writes: [Effect on the hard disk](GAME_GUIDE.md#effect-on-the-hard-disk).
 - **Log.** `<game>: auto relocation done`, `[ERROR] <game>: auto relocation stopped: ...`
 
 <details>
@@ -239,7 +242,7 @@ When the first real run records a trace, the plan made from it replaces the earl
 - **When.** From a game's start to its exit (plus a short grace period).
 - **What.** Blocks relocation, reapply, and tier writes on that disk, yields prewarm, and records how the disk behaved (`play record:`).
 - **Does not.** Read the game's files or process. The play record uses only disk device counters, and it does not make the game faster by itself.
-- **Settings.** `auto.start_stream_cap_seconds`, `auto.restream_cooldown_min`, `auto.keep_awake`.
+- **Settings.** `auto.start_stream_enabled` (when `false`, no start stream runs), `auto.start_stream_cap_seconds`, `auto.restream_cooldown_min`, `auto.keep_awake`.
 - **Log.** `<game>: start stream skipped (<why>)`, `play record: ...`
 
 <details>
@@ -434,7 +437,7 @@ All `auto.*` keys, their meanings, and their defaults are in [CONFIGURATION.md](
 - The Status tab shows one line per game, such as "Auto: Frostpunk discovered → collecting trace → waiting to relocate → relocating → [done]". The Games tab shows the source, stage, and anti-cheat columns.
 - The learning stage shows "First run: learning (read-ahead n MiB)", and "Prewarmed" appears after prewarm.
 - The per-game status line also shows `hit right after prewarm N%` (the hit rate measured right after a prewarm ends) and `SSD assist N GB` (the size of the game's SSD copies).
-- Tray notifications are sent for discovery, for a finished relocation, and when a first run ends ("Faster from the next launch: <game>").
+- Tray notifications are sent for discovery, for a finished relocation, and when a first run ends ("Faster from the next launch: <game>"). The pop-up can be turned off in the Settings tab's Notifications card (`notifications.enabled` in `tray.json`); the notice is still written to the tray log.
 
 </details>
 

diff --git a/docs/GAME_GUIDE.ko.md b/docs/GAME_GUIDE.ko.md
@@ -29,7 +29,7 @@
 
 ## 주의사항
 
-- **먼저 백업하십시오.** AsterCache 는 베타이고 파일 데이터를 물리적으로 옮깁니다. 중요한 데이터가 든 드라이브는 쓰기 전에 백업하십시오.
+- **먼저 백업하십시오.** AsterCache 는 파일 데이터를 물리적으로 옮깁니다. 중요한 데이터가 든 드라이브는 쓰기 전에 백업하십시오.
 - **이동 중에는 PC 를 끄거나 절전으로 두지 마십시오.** 이동은 저널로 이어갈 수 있지만, 쓰기 중 정전은 시험하지 않았습니다. 노트북에서는 AC 전원이나 배터리 50% 이상일 때까지 재배치가 기다립니다.
 - **드라이브를 Windows 드라이브 최적화에서 제외하십시오.** Windows 는 주 1회 예약 작업으로 HDD 를 디프래그하며 이것이 재배치한 배치를 되돌릴 수 있습니다. 시작 메뉴에서 "드라이브 조각 모음 및 최적화"(Defragment and Optimize Drives)를 열고, 최적화 예약의 "설정 변경"을 눌러 "선택"으로 드라이브 목록을 열고 게임 드라이브의 체크를 해제합니다. 직접 `defrag D:`도 실행하지 마십시오. 그래도 배치가 흐트러지면 서비스가 알아채 복구하는데, 이것도 쓰기입니다.
 - **수동 재배치 전에는 게임과 런처를 끄고** 작업 관리자에서 관련 프로세스가 남아 있지 않은지 확인하십시오.

diff --git a/docs/GAME_GUIDE.md b/docs/GAME_GUIDE.md
@@ -31,7 +31,7 @@ What each feature does to the drive that holds the game:
 
 ## Cautions
 
-- **Back up first.** AsterCache is a beta and it physically moves file data. Back up drives that hold important data before using it.
+- **Back up first.** AsterCache physically moves file data. Back up drives that hold important data before using it.
 - **Do not power off or sleep during a move.** A move can resume from its journal, but power loss during writes was not tested. On a laptop, relocation waits for AC power or a battery at 50% or more.
 - **Exclude the drive from Windows drive optimization.** Windows defragments HDDs with a weekly scheduled task, which can undo the relocated layout. Open "Defragment and Optimize Drives" from the Start menu, press "Change settings" for the optimization schedule, open the drive list with "Choose", and uncheck the game drive. Do not run `defrag D:` yourself either.
   If the layout drifts anyway, the service notices it and restores it, which is another write.
